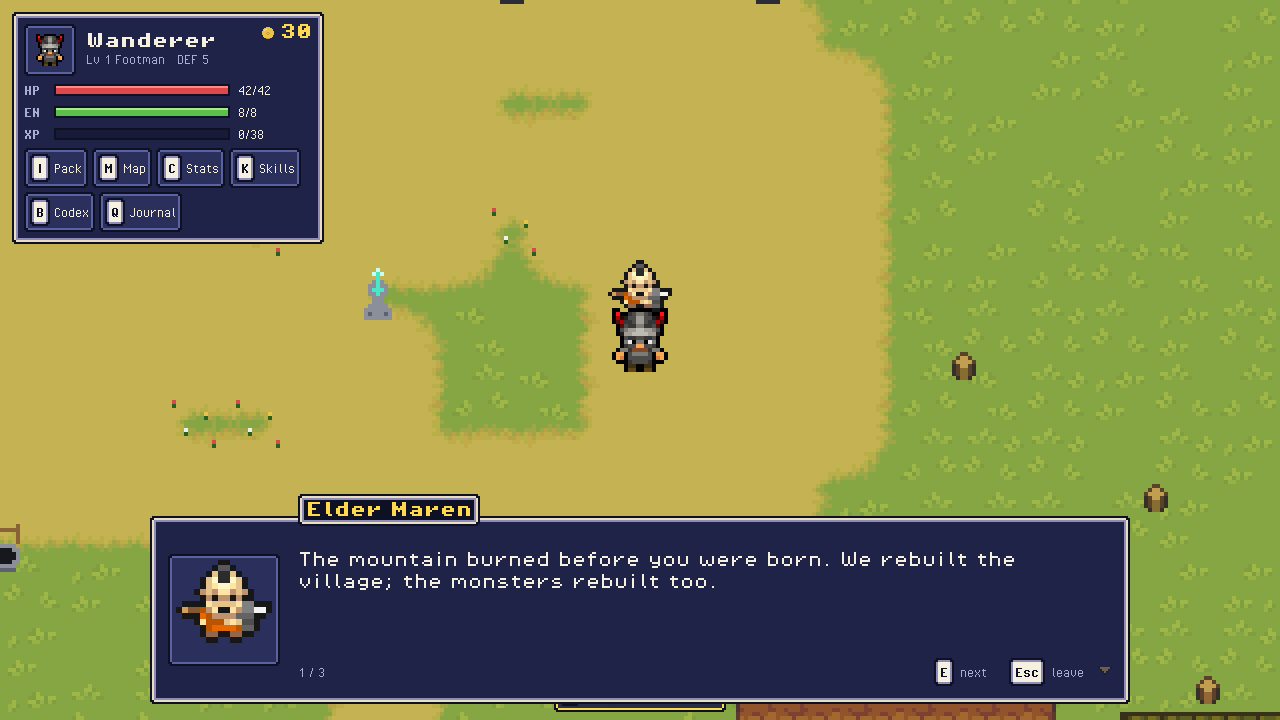
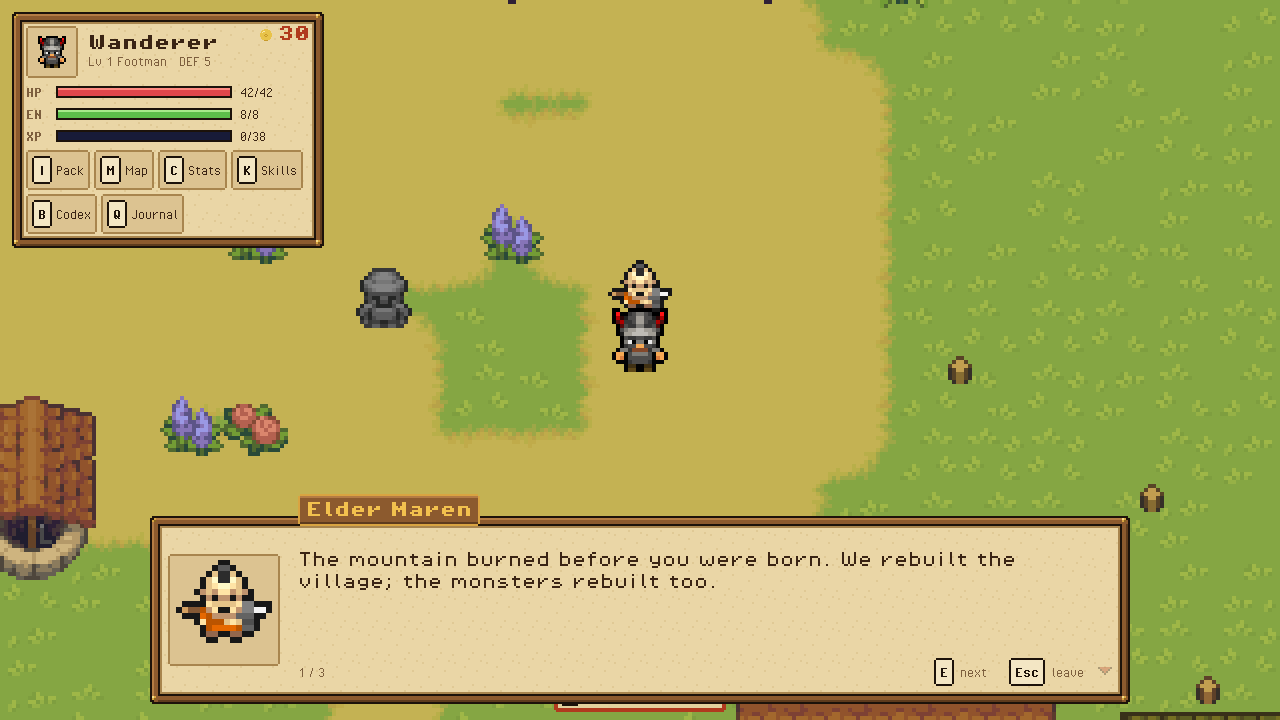
feat: the UI becomes a village ledger - parchment pages in carved wooden frames with brass studs, rows inked on the page, wooden planks for buttons lit brass when chosen, brown-black ink with rubric red for focus on the page and cream and gold on the dark around it; every screen's lists now sit on a

diff --git a/.claude/skills/pixelheim-godot/SKILL.md b/.claude/skills/pixelheim-godot/SKILL.md
@@ -30,7 +30,7 @@ Pixelheim is a Godot 4.7 game (`godot/`), live at the Pages root since PIX-129. 
 - Nodes are built in code; `scenes/main.tscn` is the only scene. `world.gd` orchestrates: maps, actors (one y-sorted `actors` layer), HUD, interaction; `harness.gd` (added only for `--screenshot` runs) drives the screenshot harness.
 - Signals up, calls down: `GameState` emits (`loaded`, `gold_changed`, `inventory_changed`, `dialogue_closed`); world and UI listen.
 - Menus/overlays are `CanvasLayer`s with `process_mode = ALWAYS` that pause the tree while open. Open the hero's screens through `world.open_screen(name)`.
-- **The look lives in `UiStyle` (`scripts/ui_style.gd`, PIX-132)**: retro RPG windows on the title's night (navy fill, cream frame, dark outline, gold `LAMP` for focus). Frames are pixel art generated from the palette at 1x and shown at `UI_SCALE` 2, as 9-slice `StyleBoxTexture`s. `UiStyle.window()` is a main window; `UiStyle.box(fill, rim, padding)` infers the rest (a `LAMP` rim means focus, `CARD` with padding ≥ 12 means a window, anything else is a card). Footers are `UiStyle.footer("Esc  close      W/S  choose", at)` (keycaps). Don't hand-roll `StyleBoxFlat`s or colours.
+- **The look lives in `UiStyle` (`scripts/ui_style.gd`, PIX-138)**: pages of a village ledger. Parchment (`WINDOW`) in a carved wooden frame with brass corner studs, rows and slots (`CARD`) inked on the page with a `RIM` line, wooden planks for buttons (`UiStyle.plank`, `UiStyle.focus(button, on)` for the chosen one). Frames are pixel art generated from the palette at 1x and shown at `UI_SCALE` 2, as 9-slice `StyleBoxTexture`s (the page tiles its grain, never stretches it). **Two text palettes, by surface**: on the page `INK`, `FADED`, and `LAMP` (rubric red) for focus; on the dark around windows (headings, subtitles, gold counts, footers, the title, anything over the world) `CREAM`, `DUSK`, `GOLD`. Rarity inks are `FINE` and `EPIC`. Content that isn't in a window sits on `UiStyle.page(rect)`, never on the backdrop. `UiStyle.window()` is a main window; `UiStyle.box(fill, rim, padding)` infers the rest (a `LAMP` rim means focus, `CARD` with padding ≥ 12 means a window, anything else is a card). Footers are `UiStyle.footer("Esc  close      W/S  choose", at)` (keycaps, on the dark). Don't hand-roll `StyleBoxFlat`s or colours.
 - **Type is all pixel fonts at whole-number scales**: `UiStyle.label(text, size, color)` below 16 gives dense Pixel Operator at 1x (rows, descriptions, hints); 16 and up gives the chunky Pixel Operator 8 at 2x (dialogue, names, menus, values), and 3x from 24. `UiStyle.strong` is bold; `UiStyle.sized(control, size)` applies the same rule to buttons and fields; `UiStyle.heading` is Press Start 2P. `UiStyle.setup()` (first line of `world._ready`) makes the default font render fixed-size. Never set fractional or arbitrary font sizes on other fonts.
 - Input in menus: build the command, `get_viewport().set_input_as_handled()` **first**, then run it; an action that reloads the scene frees the menu (calling it after logs `!is_inside_tree`).
 - **Never poll `Input.is_action_just_pressed` for a key a menu or conversation can take** (world, attack, skills): a modal that closes on a key event unpauses the tree in that same frame, and the poll still sees the key, so E reopened every conversation and Esc opened the pause menu behind it (PIX-131). Take keys in `_unhandled_input` and mark them handled. Polling is only for held input (`Input.get_vector`).
